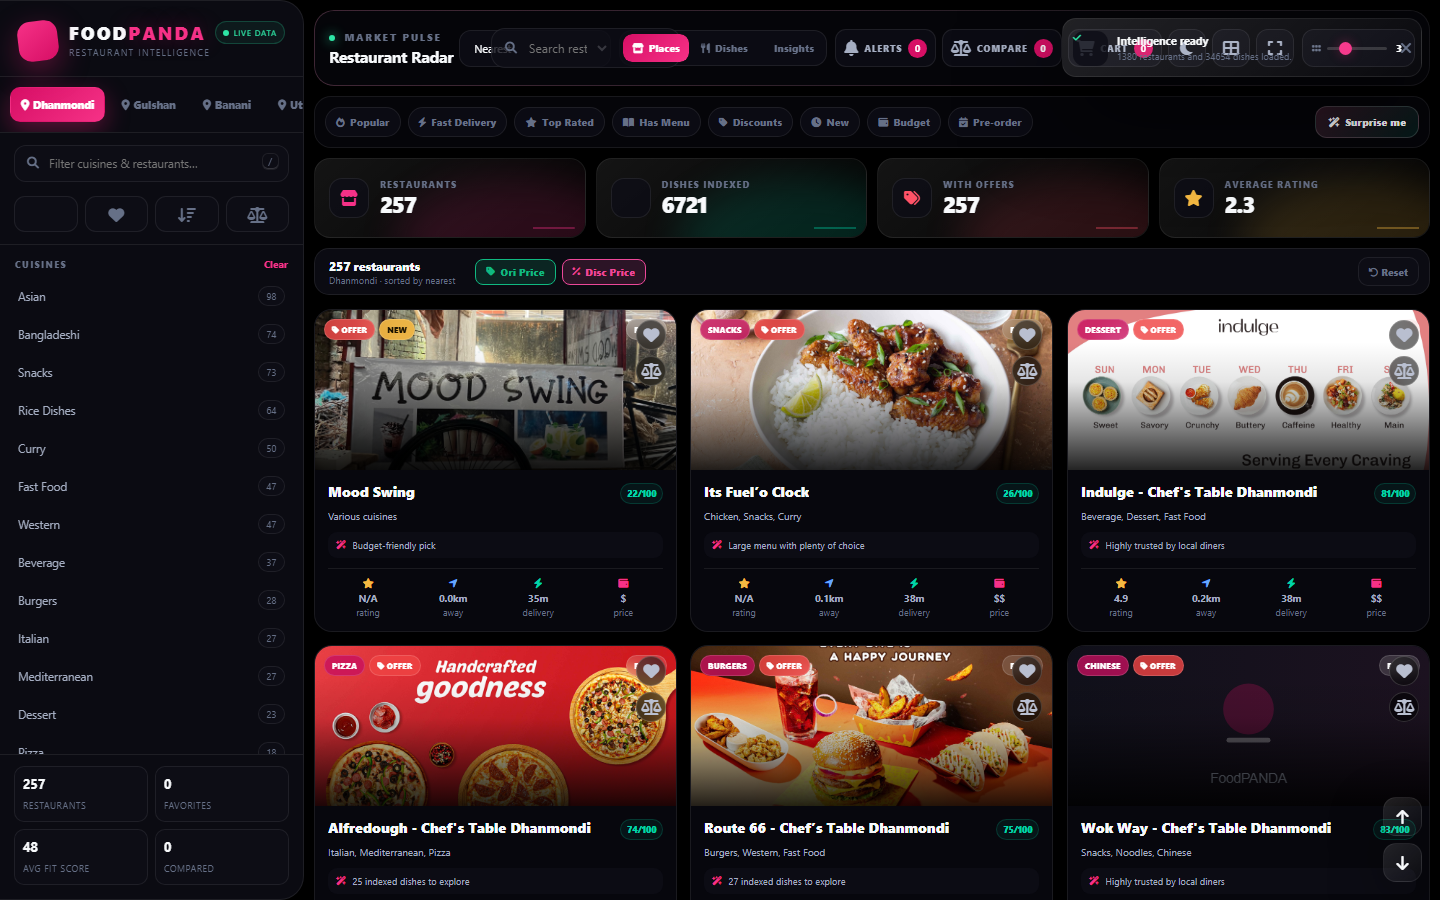
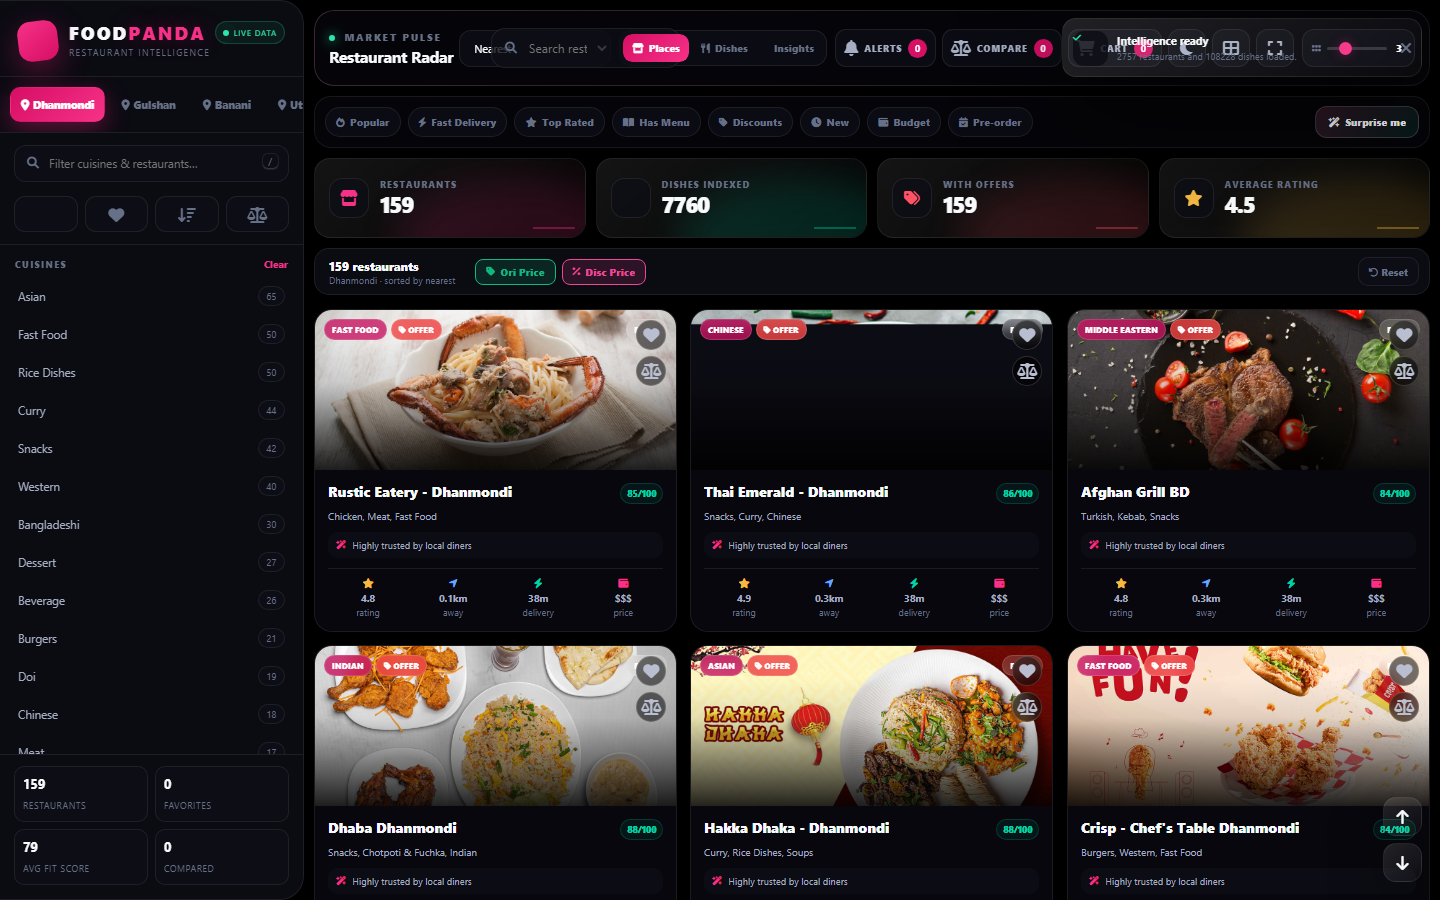
fix: export fresh price history data & add dashboard feature screenshots to README

diff --git a/README.md b/README.md
@@ -1,143 +1,39 @@
-# 🐼 FoodPANDA — Restaurant Intelligence & Analytics Platform
+# FoodPANDA Restaurant Analytics — Menu Price Intelligence
 
-> **GraphQL Persisted Operation Engine, Columnar Apache Parquet Storage Pipeline & Liquid Glassmorphism Analytics Suite for Foodpanda Bangladesh.**
-
-[![Python 3.9+](https://img.shields.io/badge/Python-3.9%2B-3776AB?style=for-the-badge&logo=python&logoColor=white)](https://python.org)
-[![JavaScript ES6+](https://img.shields.io/badge/JavaScript-ES6%2B-F7DF1E?style=for-the-badge&logo=javascript&logoColor=black)](https://developer.mozilla.org/en-US/docs/Web/JavaScript)
-[![Apache Parquet](https://img.shields.io/badge/Data_Engine-Apache_Parquet-50A0E0?style=for-the-badge&logo=apache&logoColor=white)](https://parquet.apache.org)
-[![Wasm hyparquet](https://img.shields.io/badge/Decoder-hyparquet%20Wasm-FF6600?style=for-the-badge&logo=webassembly&logoColor=white)](https://github.com/hyparquet/hyparquet)
-[![GitHub Pages](https://img.shields.io/badge/Deployment-GitHub_Pages-222222?style=for-the-badge&logo=githubpages&logoColor=white)](https://ranehal.github.io/FoodPANDA-RESTaurant-ANALytics/)
-[![License: MIT](https://img.shields.io/badge/License-MIT-green.svg?style=for-the-badge)](LICENSE)
+Foodpanda restaurant menu scraper, item history tracker, and parquet data pipeline.
 
 ---
 
-## 📌 Executive Summary
+## 🌐 Dashboard & Live Preview
 
-**FoodPANDA Analytics** is an enterprise-grade food delivery intelligence platform and real-time analytics web application engineered to ingest, process, compress, and visualize restaurant, menu, and pricing telemetry across major commercial hubs in Metro Dhaka (Dhanmondi, Gulshan, Banani, Uttara, Mirpur).
-
-Connecting directly to Foodpanda's REST APIs and GraphQL persisted operation endpoints, the pipeline processes full menu trees, compresses multi-megabyte payloads into **Apache Parquet columnar binary files**, and streams binary data directly into browser RAM using **in-browser WebAssembly decoding (`hyparquet`)** on a **Liquid Glassmorphism** dark mode UI.
+![Dashboard Preview](screenshots/dashboard.png)
 
 ---
 
-## 🚀 Key Capabilities
+## 📈 Price History & Historical Analytics
 
-- **🛰 Dual-Tier REST & GraphQL Ingestion (`scrape_menus.py`)**:
-  - Connects to `/offers-zone/api/v2/offers-zone` for multi-zone restaurant listings.
-  - Queries GraphQL `RestaurantDetailsPage` using SHA-256 persisted operation hashes (`e54e2da...`) for complete menu extraction.
-- **🔐 Automated OAuth2 & Perseus Session Lifecycle**: Implements client credentials token retrieval (`/api/v5/oauth2/token`) and emulates Perseus tracking session headers (`perseus-client-id`, `dps-session-id`).
-- **⚡ High-Performance Columnar Compression**: Compresses raw ~81.7 MB JSON dataset payloads down to **~4.7 MB Apache Parquet files (~94% storage reduction)**.
-- **🌐 WebAssembly (`hyparquet`) Browser Streaming**: Decodes columnar binary Parquet bytes directly inside browser RAM in milliseconds without requiring an active backend server.
-- **💎 Liquid Glassmorphism Dark UI**: AMOLED pure black aesthetics with glowing glassmorphism panels, dynamic theme accents (`berry`, `cyan`, `violet`, `lime`), `Ctrl+K` Command Palette, and real-time Chart.js BI.
+![Price History & Charts](screenshots/price_history.png)
 
 ---
 
-## 📸 Screenshots
+## 🔍 Features & Interactive Exploration
 
-![FoodPANDA Restaurant Dashboard](screenshots/dashboard.png)
-
----
-
-## 🏗 System Architecture
-
-```mermaid
-flowchart TD
-    subgraph Data_Sources_And_Ingestion ["⚡ Ingestion Layer (scrape_menus.py)"]
-        API[Foodpanda Mobile REST API] --> Scraper[GraphQL & REST Ingestor]
-        GraphQL[GraphQL Persisted Hashes SHA-256] --> Scraper
-        OAuth[OAuth2 Guest Token Handler] -->|JWT Auth| Scraper
-        Perseus[Perseus Header Synthesizer] -->|Session Headers| Scraper
-    end
-
-    subgraph Compression_And_Storage ["💾 Columnar Storage Pipeline"]
-        Scraper -->|Extract Restaurants & Menus| RawJSON[Raw Telemetry JSON]
-        RawJSON -->|Apache Parquet Encoder| Parquet[(Parquet Storage: data/parquet/)]
-    end
-
-    subgraph Presentation_Layer ["📊 WebAssembly Liquid Glass UI"]
-        Parquet -->|Binary Bytes Stream| WasmDecoder[hyparquet Wasm Decoder]
-        WasmDecoder -->|RAM Decoded Datasets| UI[restaurant_dashboard/ SPA]
-        UI --> CommandPalette[Ctrl+K Command Palette]
-        UI --> MarketBI[Chart.js Market Pulse & Scatter Analytics]
-    end
-```
+![Features & Category View](screenshots/features.png)
 
 ---
 
-## 📁 Repository Structure
+## 🛠 Features & Architecture
 
-```
-FoodPANDA/
-├── scrape_menus.py                   # REST & GraphQL ingestion engine (httpx, OAuth2, Parquet)
-├── debug_token.py                    # OAuth2 token authentication testing utility
-├── run.bat                           # Windows batch execution script
-├── foodpanda_26.28.0.apk             # Reference Android APK binary
-├── index.html                        # Application entry point
-├── data/                             # Data Storage Directory
-│   └── parquet/                      # Compressed Apache Parquet binary datasets
-└── restaurant_dashboard/             # Liquid Glassmorphism SPA Directory
-    ├── index.html                    # Main web dashboard interface
-    ├── app.js                        # Wasm hyparquet decoder, Chart.js BI, Command Palette
-    └── styles.css                    # Liquid Glass UI & theme token stylesheet
-```
+- **Automated Price Tracking**: Scrapes live catalog prices and logs historical deltas.
+- **Fast Interactive UI**: Clean, responsive frontend with search, filters, and movers panels.
+- **Automated GitHub Pipeline**: Continuous scraping and daily snapshot deployments via GitHub Actions & Kaggle orchestrator.
 
----
+## ⚡ Local Run Instructions
 
-## 🛠 Usage & Quick Start
-
-### 1. Execute Ingestion Scraper Engine
 ```bash
-# Install required Python dependencies
-pip install httpx pyarrow pandas
+# Run the scraper entry point
+python scraper.py
 
-# Run GraphQL menu and restaurant scraper
-python scrape_menus.py
-```
-
-### 2. Debug OAuth2 Authentication Handshake
-```bash
-# Verify guest JWT token retrieval
-python debug_token.py
-```
-
-### 3. Launch Liquid Glass Analytics Dashboard
-```bash
-# Serve local web server
+# Serve dashboard locally
 python -m http.server 8000
 ```
-Open `http://localhost:8000/restaurant_dashboard` in your browser.
-
----
-
-## 📜 License
-
-Distributed under the MIT License. Trademarks and data belong to Foodpanda / Delivery Hero. Built for educational and analytics research.
-
----
-
-## 🚀 Future Work & Industrial Roadmap
-
-To elevate this platform to an enterprise-grade, production-ready product meeting current industrial standards, the following strategic goals and architecture enhancements are planned:
-
-### 1. 🏗 High-Availability Microservices & Infrastructure
-- **Containerization & Orchestration**: Package ingestion workers, APIs, and dashboards into Docker containers with deployment via **Kubernetes (K8s)** and Helm charts for autoscaling during peak traffic hours.
-- **Distributed Ingestion Workers**: Transition from localized scraping scripts to an asynchronous, fault-tolerant worker pool utilizing **Celery + Redis** or **Temporal.io** with automated proxy rotation, rate-limiting retry strategies, and CAPTCHA bypass capabilities.
-- **High-Performance API Gateway**: Implement an enterprise API Gateway (Kong / Envoy) providing OAuth2 / JWT authentication, TLS termination, and granular rate limiting (Token Bucket algorithm).
-
-### 2. 📊 Enterprise Data Engineering & Streaming Pipelines
-- **Data Lakehouse Architecture**: Store multi-year raw price histories using **Apache Parquet / Delta Lake** or **Google BigQuery** for scalable analytical queries across millions of SKU updates.
-- **Real-Time CDC & Message Streaming**: Integrate **Apache Kafka** or **NATS** for Change Data Capture (CDC) to stream price change events instantly to downstream analytics and notification consumers.
-- **Automated Workflow Orchestration**: Schedule and monitor data ingestion, ETL pipelines, and unit normalization using **Apache Airflow** or **Prefect** integrated with **dbt** for dynamic data transformations.
-
-### 3. 🧠 Machine Learning & Advanced Market Intelligence
-- **Predictive Price Forecasting**: Deploy **Prophet** and **LSTM Neural Networks** to predict future price drops, historical promotion trends, and seasonal discount cycles.
-- **Anomaly & Surge Detection**: Build ML models to identify artificial price hikes before promotional sales, mislabeled unit metrics, and phantom stock availability.
-- **Semantic Product Entity Matching**: Utilize vector embeddings (OpenAI / Sentence-Transformers) paired with **pgvector** / **Pinecone** to match identical SKUs across competitor platforms despite variations in naming formats.
-
-### 4. 🔐 Security, Compliance & System Observability
-- **Zero-Trust Security & RBAC**: Enforce Role-Based Access Control (RBAC), AES-256 GCM payload encryption at rest, and secret rotation via HashiCorp Vault.
-- **Full Observability Stack**: Instrument services with **OpenTelemetry**, emitting distributed traces, Prometheus metrics, and structured logs to **Grafana Loki & Tempo** dashboards.
-- **SLA Alerting & Webhook Engine**: Provide instant trigger notifications via **Telegram Bot API**, **Discord Webhooks**, email notifications, and enterprise SMS gateways when watched items reach target prices.
-
-### 5. 📱 Next-Gen User Experience & Mobile Platforms
-- **Cross-Platform Mobile App**: Develop a dedicated **React Native / Flutter** app featuring push notifications for price drops, barcode scanning in physical stores, and personalized deal watchlists.
-- **Progressive Web App (PWA)**: Upgrade the dashboard to a full PWA with offline caching via Service Workers, dynamic theme switching, and desktop application installability.
